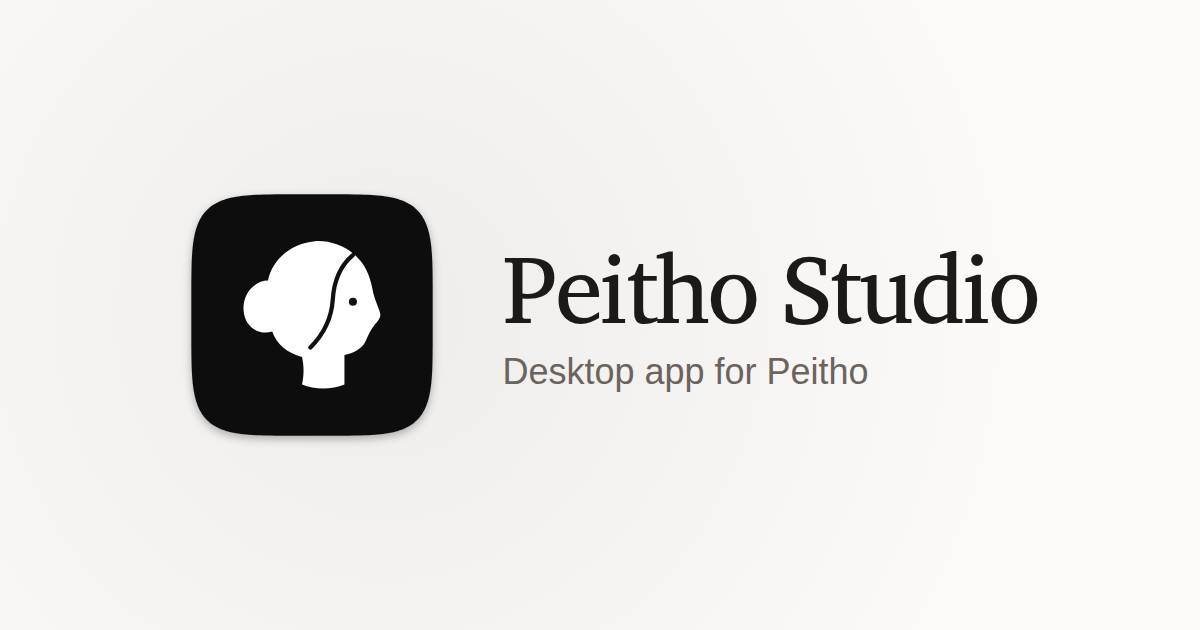
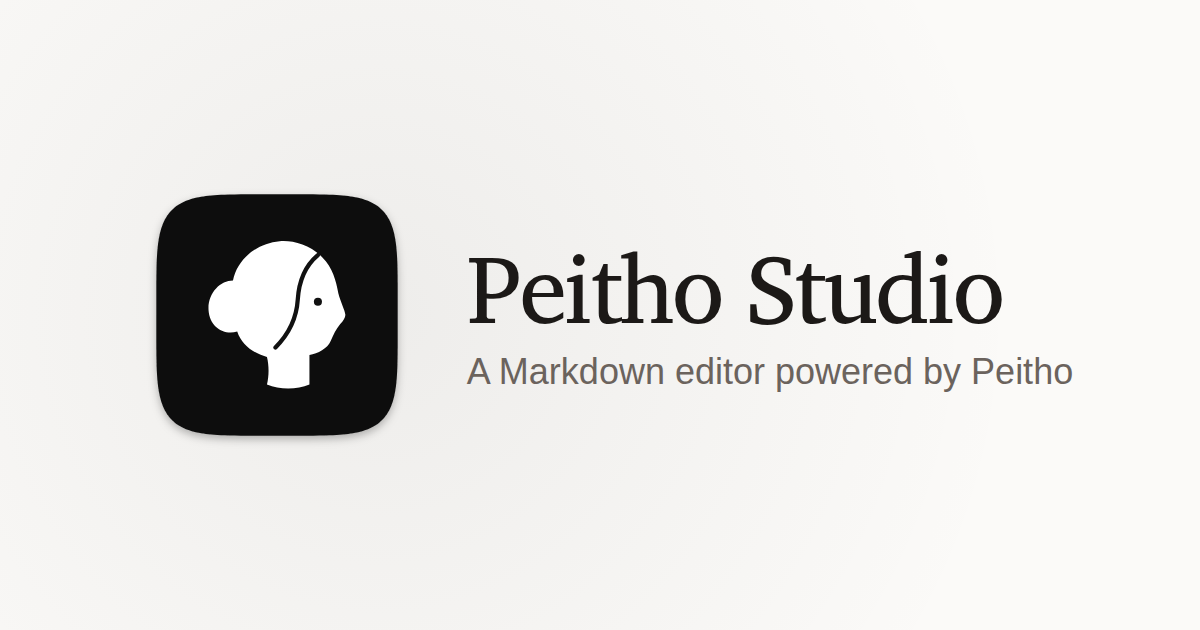
Say what Peitho Studio is in the hero: a Markdown editor powered by Peitho
"Desktop app for Peitho" only made sense to someone who already knew
Peitho. Lead with what the app is instead, in the hero, the page title,
the meta/OG descriptions and the OG image.

Claude-Session: https://claude.ai/code/session_01XBe8icZmUznvew9dJNfAH3

Changed region(s): [[0.1233, 0.3016, 0.8942, 0.6937]]

diff --git a/site/index.html b/site/index.html
@@ -3,8 +3,8 @@
 <head>
   <meta charset="utf-8">
   <meta name="viewport" content="width=device-width, initial-scale=1">
-  <title>Peitho Studio — Desktop app for Peitho</title>
-  <meta name="description" content="Peitho Studio is the desktop app for Peitho, an HTML-native presentation tool that treats Markdown as the source of truth.">
+  <title>Peitho Studio — A Markdown editor powered by Peitho</title>
+  <meta name="description" content="Peitho Studio is a desktop Markdown editor powered by Peitho, an HTML-native presentation tool that treats Markdown as the source of truth.">
   <meta name="theme-color" content="#fbfaf8">
   <meta name="color-scheme" content="light">
   <link rel="icon" type="image/svg+xml" href="../brand/app-icon-small.svg">
@@ -15,7 +15,7 @@
   <meta property="og:type" content="website">
   <meta property="og:site_name" content="Peitho Studio">
   <meta property="og:title" content="Peitho Studio">
-  <meta property="og:description" content="Desktop app for Peitho.">
+  <meta property="og:description" content="A Markdown editor powered by Peitho.">
   <meta property="og:image" content="/og.png">
   <meta property="og:image:width" content="1200">
   <meta property="og:image:height" content="630">
@@ -39,7 +39,7 @@
       <div class="hero-copy">
         <img class="hero-icon" src="../brand/app-icon.svg" alt="" width="128" height="128">
         <h1 id="title">Peitho Studio</h1>
-        <p class="hero-lede">Desktop app for <a href="https://peitho.gosu.ke">Peitho</a></p>
+        <p class="hero-lede">A Markdown editor powered by <a href="https://peitho.gosu.ke">Peitho</a></p>
         <div id="download-button" class="download">
           <!-- Replaced by the DownloadPanel island; kept as the no-JS fallback. -->
           <a class="btn btn-big" href="https://github.com/piconic-ai/peitho-studio/releases/latest">Download</a>

diff --git a/site/scripts/build-brand-assets.ts b/site/scripts/build-brand-assets.ts
@@ -41,7 +41,7 @@ await shoot(`<div style="width:1200px;height:630px;display:flex;align-items:cent
   background:radial-gradient(640px 640px at 380px 315px, rgba(28,25,23,.06), rgba(28,25,23,0)), #fbfaf8;color:#1c1917">
   <img src="${appIcon}" width="300" height="300">
   <div><div style="font-family:'Charis SIL',serif;font-size:96px;letter-spacing:-.03em;line-height:1.05">Peitho Studio</div>
-  <div style="font-family:-apple-system,BlinkMacSystemFont,'Segoe UI','Noto Sans',Helvetica,Arial,sans-serif;font-size:36px;color:#6b635d;margin-top:14px">Desktop app for Peitho</div></div></div>`,
+  <div style="font-family:-apple-system,BlinkMacSystemFont,'Segoe UI','Noto Sans',Helvetica,Arial,sans-serif;font-size:36px;color:#6b635d;margin-top:14px">A Markdown editor powered by Peitho</div></div></div>`,
   1200, 630, 'og.png')
 
 copyFileSync(resolve(ROOT, 'src-tauri/icons/32x32.png'), resolve(OUT, 'favicon-32.png'))

diff --git a/site/README.md b/site/README.md
@@ -7,7 +7,7 @@ from the app (its own `package.json` and lockfile), living in `site/`.
 ## Stack
 
 - One static `index.html`, styled by `public/site.css` (light only):
-  - a hero with the app icon, "Peitho Studio", "Desktop app for Peitho" and
+  - a hero with the app icon, "Peitho Studio", "A Markdown editor powered by Peitho" and
     the download button, above a screenshot of Studio with a deck open,
     framed as a window (`public/studio.webp`, `studio@2x.webp`);
   - a "Built on Peitho" card: Peitho's one-line description and a small
